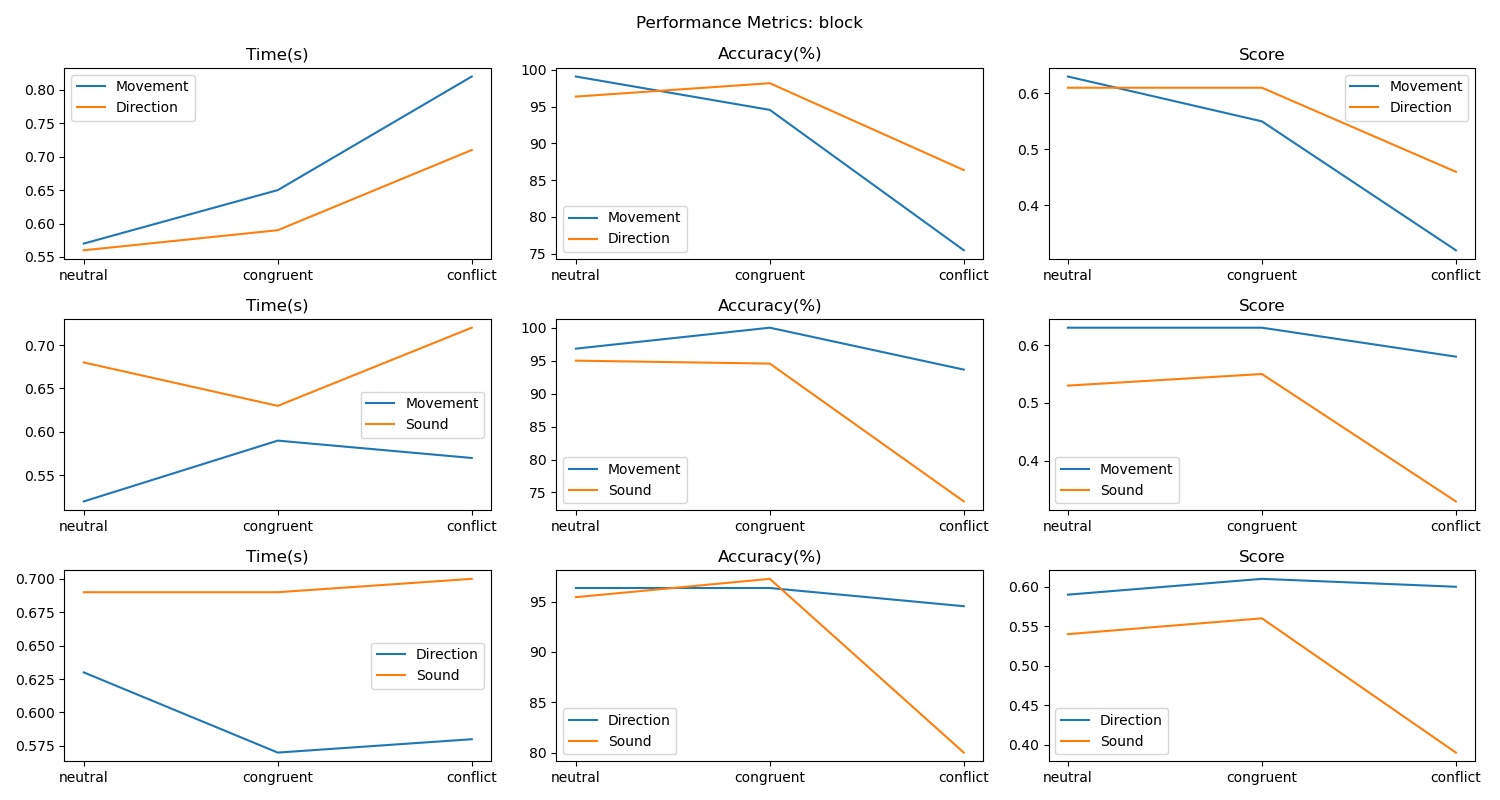
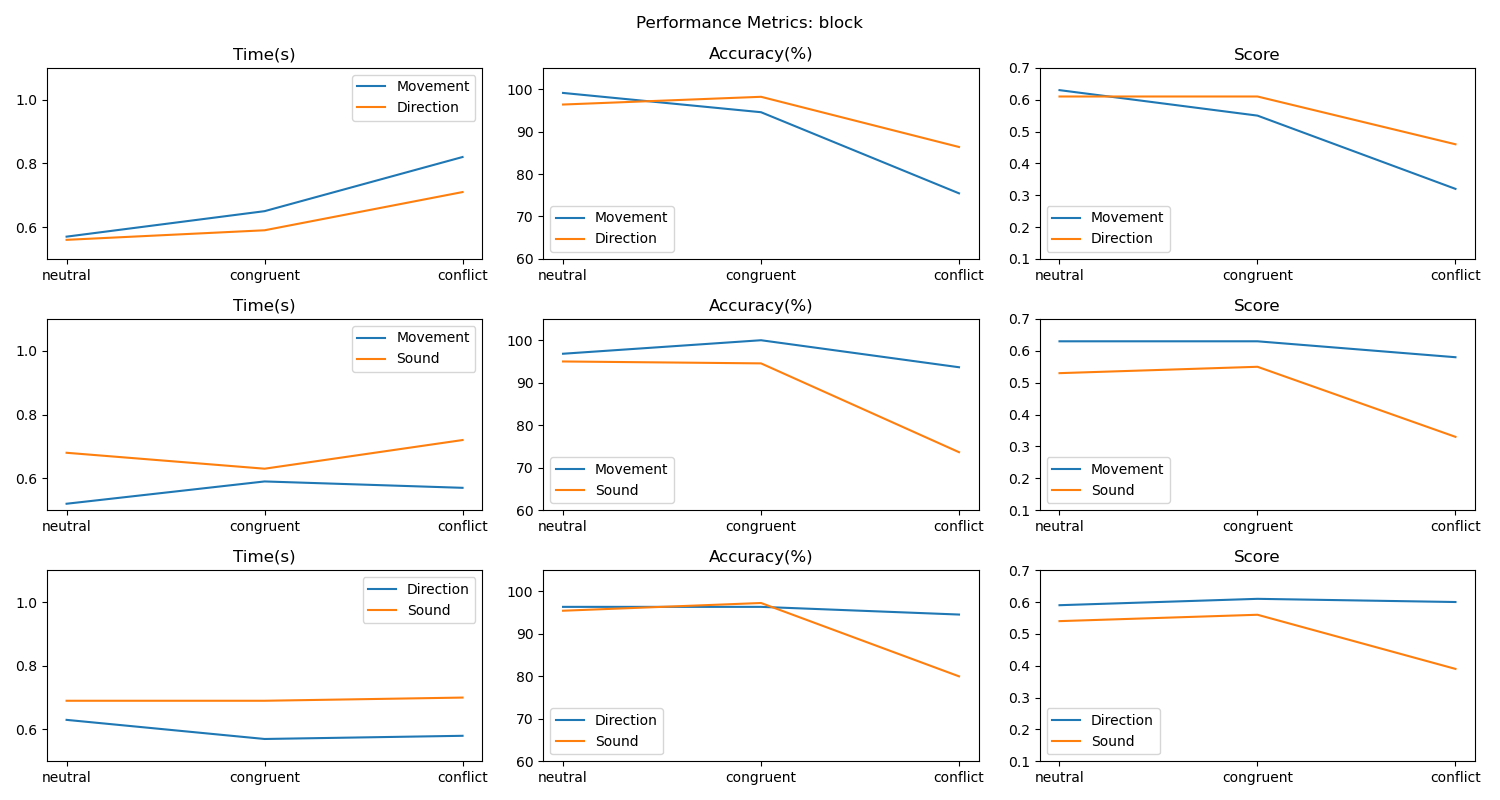
axis normalised graphs

diff --git a/analysis.py b/analysis.py
@@ -304,6 +304,7 @@ class PerformanceMetrics:
         plt.subplot(3, 3, 1)
         plt.plot(polarities, mov_dir_times[0], label="Movement")
         plt.plot(polarities, mov_dir_times[1], label="Direction")
+        plt.ylim(0.5, 1.1)
         plt.title("Time(s)")
         plt.legend()
 
@@ -311,12 +312,14 @@ class PerformanceMetrics:
         plt.plot(polarities, mov_dir_accuracies[0], label="Movement")
         plt.plot(polarities, mov_dir_accuracies[1], label="Direction")
         plt.title("Accuracy(%)")
+        plt.ylim(60, 105)
         plt.legend()
         
         plt.subplot(3, 3, 3)
         plt.plot(polarities, mov_dir_scores[0], label="Movement")
         plt.plot(polarities, mov_dir_scores[1], label="Direction")
         plt.title("Score")
+        plt.ylim(0.1, 0.7)
         plt.legend()
 
         ######################## mov_sound ########################
@@ -324,18 +327,21 @@ class PerformanceMetrics:
         plt.plot(polarities, mov_sound_times[0], label="Movement")
         plt.plot(polarities, mov_sound_times[1], label="Sound")
         plt.title("Time(s)")
+        plt.ylim(0.5, 1.1)
         plt.legend()
 
         plt.subplot(3, 3, 5)
         plt.plot(polarities, mov_sound_accuracies[0], label="Movement")
         plt.plot(polarities, mov_sound_accuracies[1], label="Sound")
         plt.title("Accuracy(%)")
+        plt.ylim(60, 105)
         plt.legend()
 
         plt.subplot(3, 3, 6)
         plt.plot(polarities, mov_sound_scores[0], label="Movement")
         plt.plot(polarities, mov_sound_scores[1], label="Sound")
         plt.title("Score")
+        plt.ylim(0.1, 0.7)
         plt.legend()
 
         ######################## dir_sound ########################
@@ -343,18 +349,21 @@ class PerformanceMetrics:
         plt.plot(polarities, dir_sound_times[0], label="Direction")
         plt.plot(polarities, dir_sound_times[1], label="Sound")
         plt.title("Time(s)")
+        plt.ylim(0.5, 1.1)
         plt.legend()
 
         plt.subplot(3, 3, 8)
         plt.plot(polarities, dir_sound_accuracies[0], label="Direction")
         plt.plot(polarities, dir_sound_accuracies[1], label="Sound")
         plt.title("Accuracy(%)")
+        plt.ylim(60, 105)
         plt.legend()
 
         plt.subplot(3, 3, 9)
         plt.plot(polarities, dir_sound_scores[0], label="Direction")
         plt.plot(polarities, dir_sound_scores[1], label="Sound")
         plt.title("Score")
+        plt.ylim(0.1, 0.7)
         plt.legend()
 
         plt.suptitle(f"Performance Metrics: {self.get_what}")
